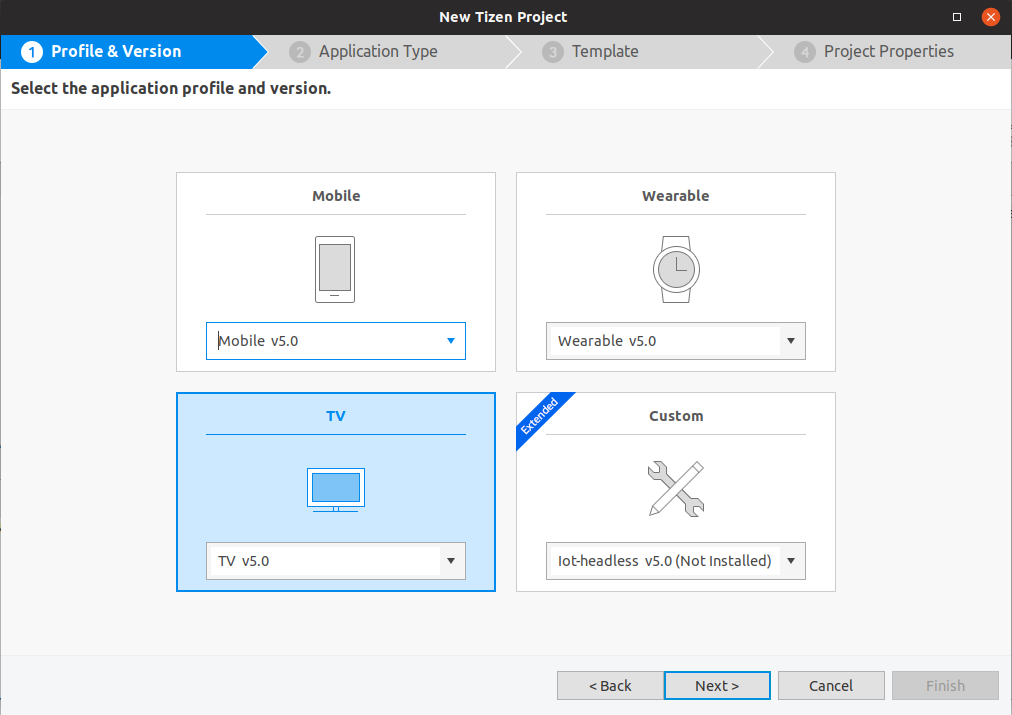
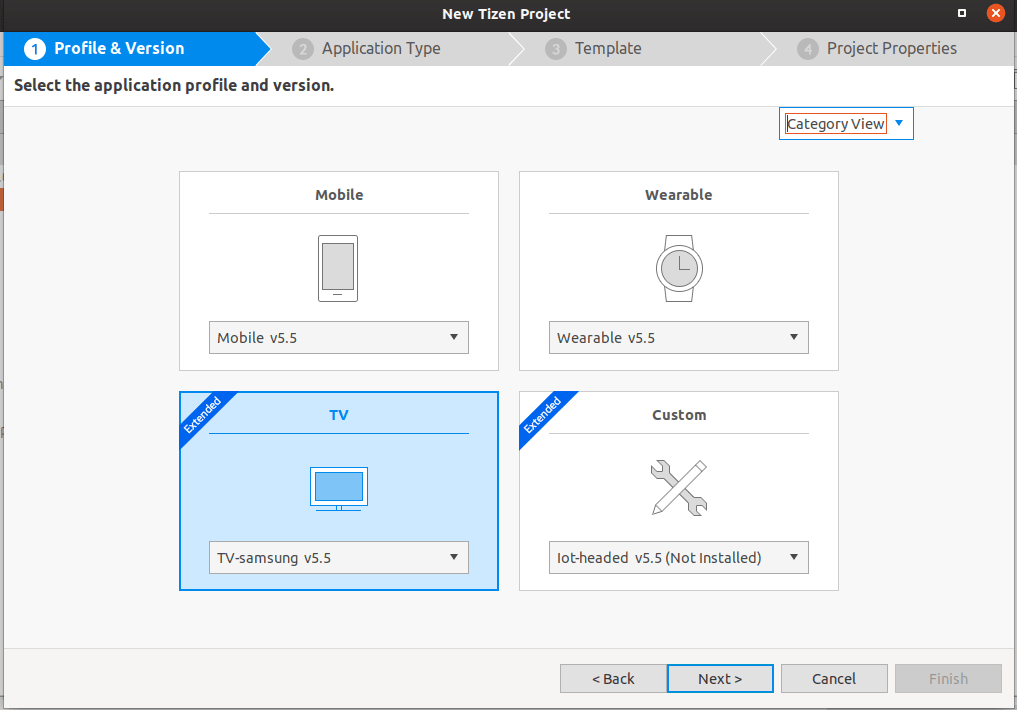
Update README.md

diff --git a/README.md b/README.md
@@ -223,7 +223,7 @@ If you have a problem on connecting refer back to **[Account and Downloads:](htt
 
 * **[Download and extract the release_4.0.1_V4.zip file Click here, this is the application recipe file](https://github.com/fgl27/smarttv-twitch/releases/download/4.0.1_V4/release_4_0_1_V4.zip)**
 
-* Making the app, Top menu > File > New > Tizen Project > click twice in **Template** > click twice in **TV** > click twice in **Web Application** > click twice in **Basic Project** > chose a project name any name ....click finish
+* Making the app, Top menu > File > New > Tizen Project > click twice in **Template** > click twice in **TV** > click twice in **Web Application** > click twice in **Empty** > chose a project name "anyname" (avoid special character and spaces) ....click finish
 
 ![install_app2](https://fgl27.github.io/smarttv-twitch/screenshot/install/install_app2.png)
 ![install_app3](https://fgl27.github.io/smarttv-twitch/screenshot/install/install_app3.png)
